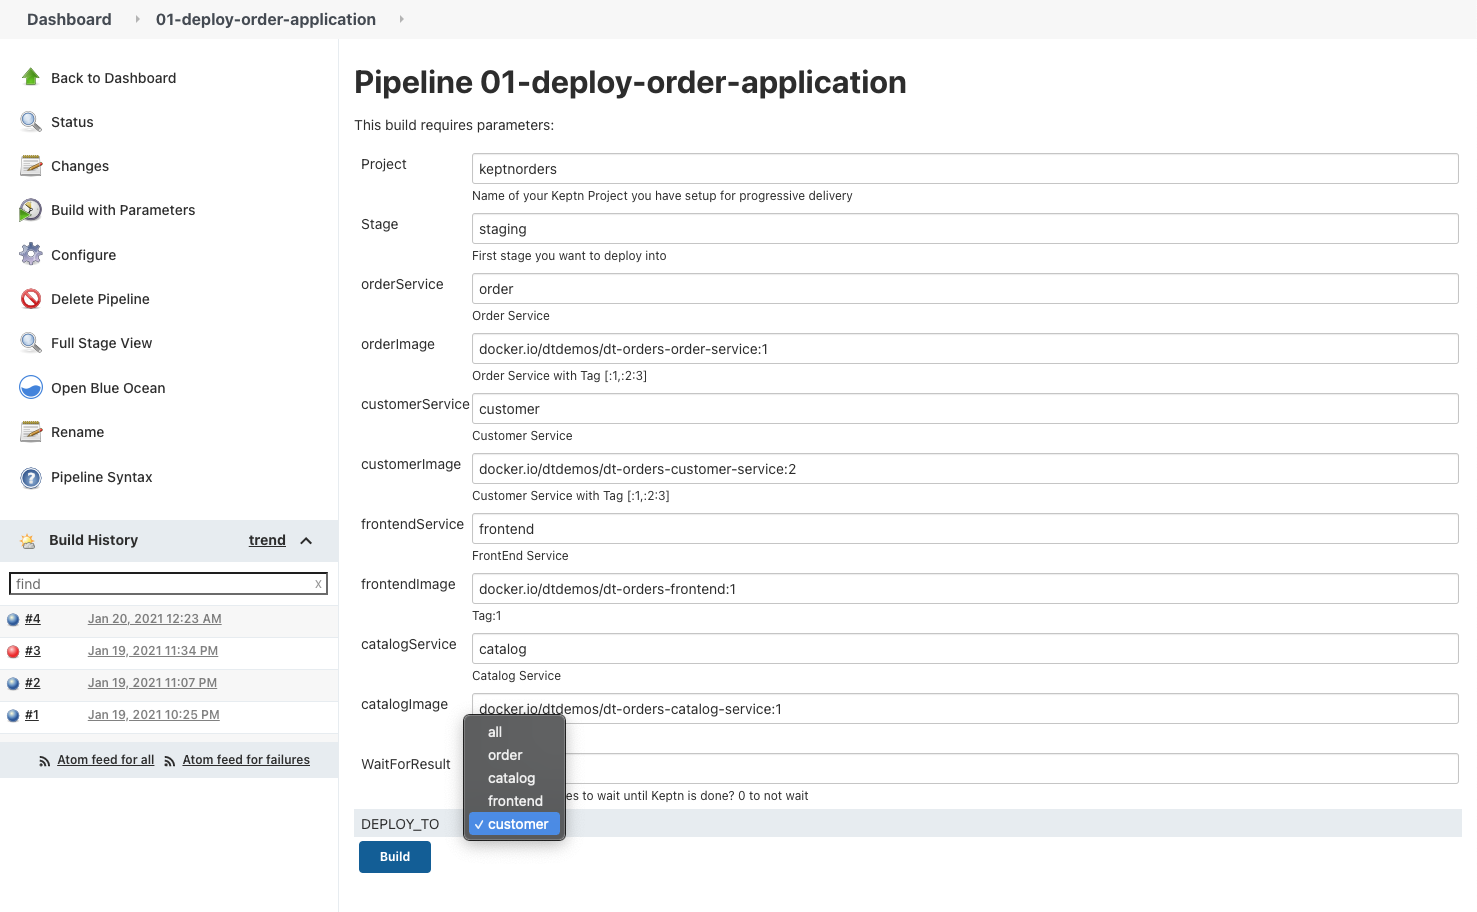
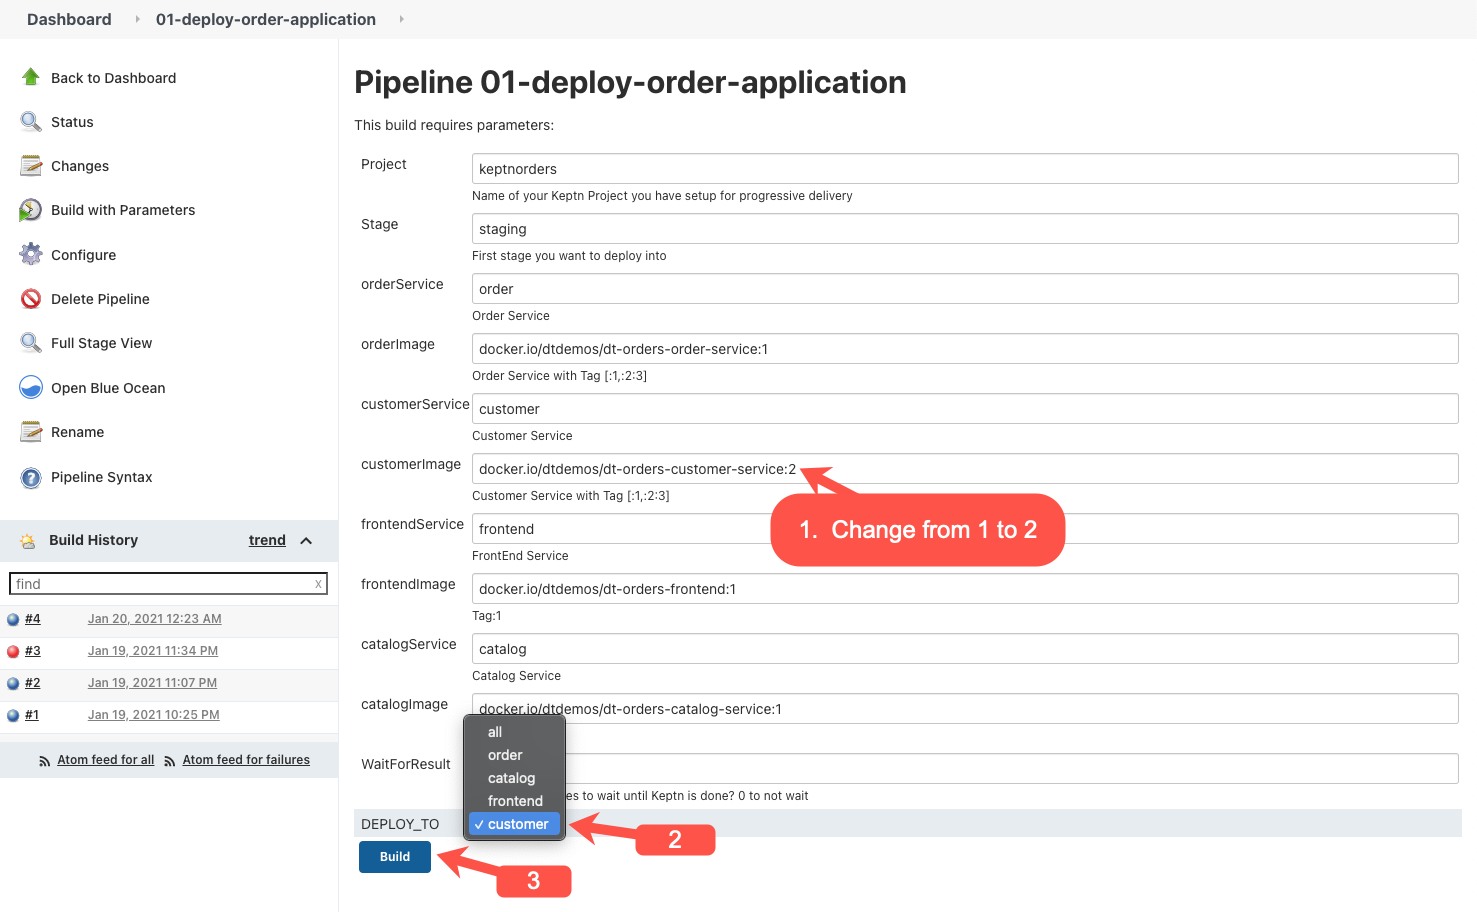
Update Build 2 section

Changed region(s): [[0.4983, 0.4912, 0.7475, 0.6447], [0.2803, 0.9211, 0.4049, 1.0], [0.3737, 0.8904, 0.4983, 0.9518]]

diff --git a/performanceEngineering-as-a-Self-Service/content/02_Load_Test_Analysis_Performance_Issue/index.md b/performanceEngineering-as-a-Self-Service/content/02_Load_Test_Analysis_Performance_Issue/index.md
@@ -131,7 +131,7 @@ Dynatrace can analyze incoming HTTP headers and extract such contextual informat
 
 You can use any (or multiple) HTTP headers or HTTP parameters to pass context information. The extraction rules can be configured via **Settings --> Server-side service monitoring --> Request attributes**.
 
-We have setup the Load Test **Request attribute** for you.   Below is an example setup but we will also show you in your environment where they are.
+We have setup the Load Test **Request attributes** for you.   Below is an example setup but we will also show you in your environment where they are.
 
 <img src="../../assets/images/lab_1_request_attribute_2.png" width="500"/>
   
@@ -139,7 +139,7 @@ We have setup the Load Test **Request attribute** for you.   Below is an example
 
 Dynatrace automatically captures important metrics for services with no configuration required. Additionally you might need additional business or technical metrics that are specific to your application. These metrics can be calculated and derived based on a wide variety of available data within the captured PurePath. This allows you to further customize key performance metrics for which alerts should be generated and helps you keeping an eye on them by pinning them to your dashboards.
 
-For Performance Testing you can use Calculated service metrics to track your Performance transaction steps.   These can be used in Dashboards and alerting during the Performance Test but also can be used in analysis after the Performance test is complete. 
+For Performance Testing you can use Calculated service metrics to track your Performance transaction steps as an example.  Once created, these metrics can be used in Dashboards and alerting during the Performance Test but also can be used in analysis after the Performance test is complete. 
 
 <img src="../../assets/images/Lab_1_Transaction_Scorecard.png" width="500"/>
 
@@ -157,7 +157,10 @@ Now we are going to push the **customer** version **2**.
 
 Select **"Build with parameters"**
 
-Then we need to change the build for customer to version 2 and select the build for **Customer**
+- In the **customerimage** field we need to change the value at the end from 1 to **2**
+- In the DEPLOY_TO field, change the dropdown box to **customer**
+
+Next, click the **Build** button.
 
 <img src="../../assets/images/lab_1_customer_build.png" width="500"/>
 
